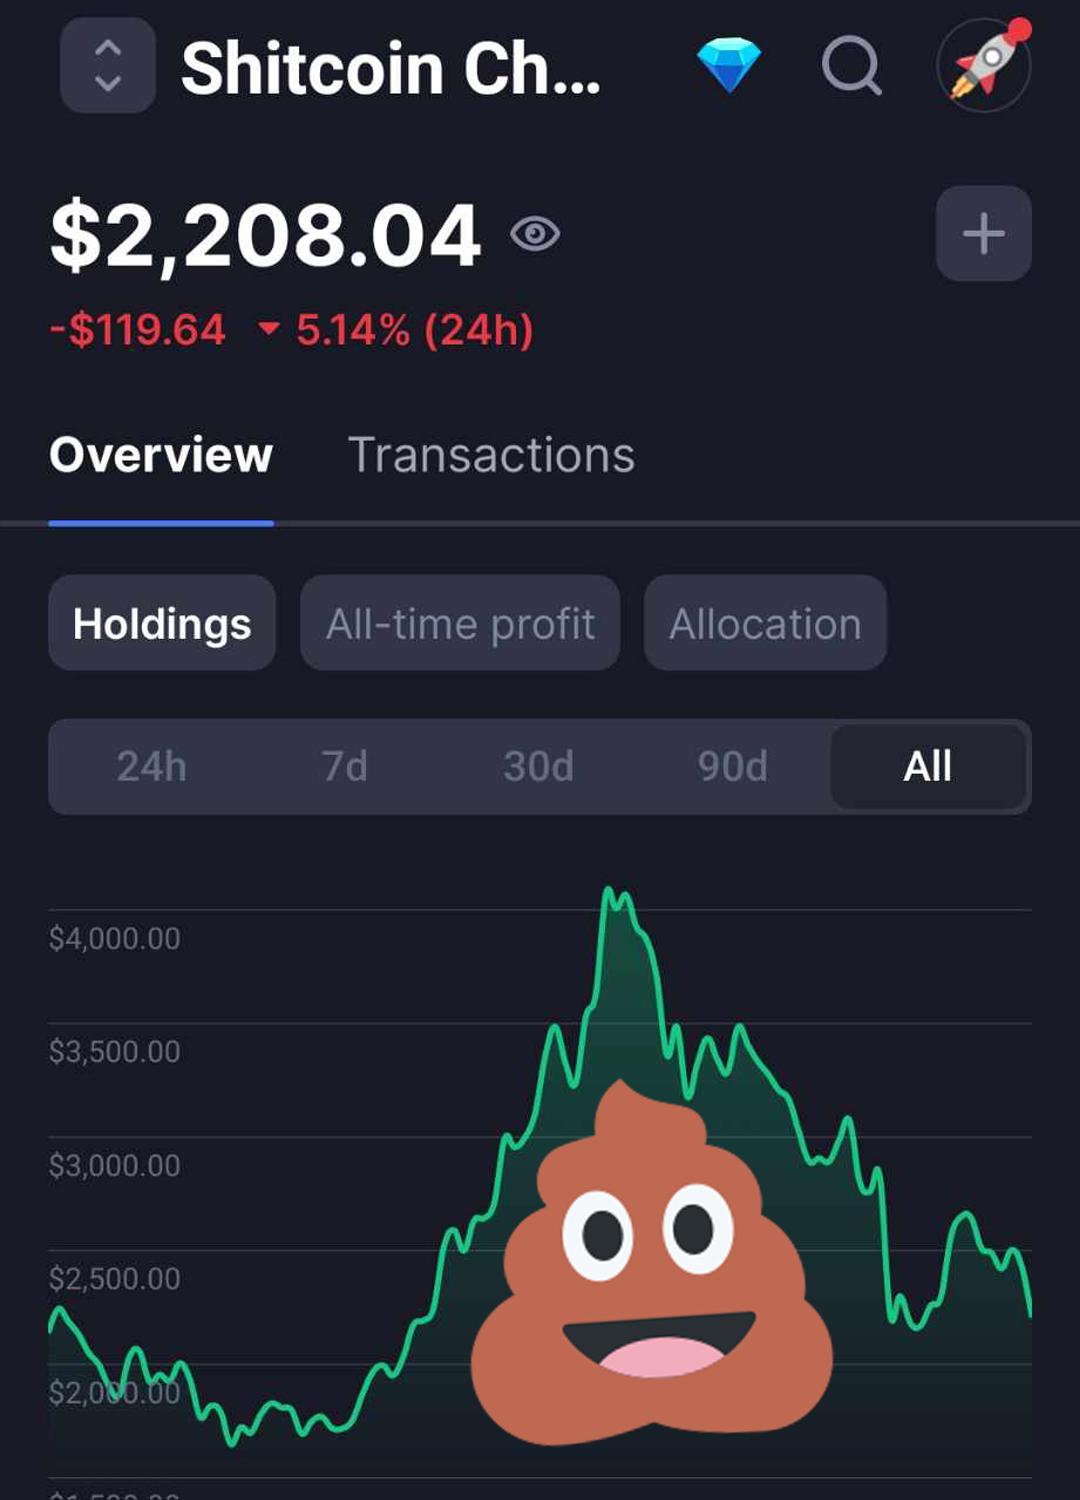
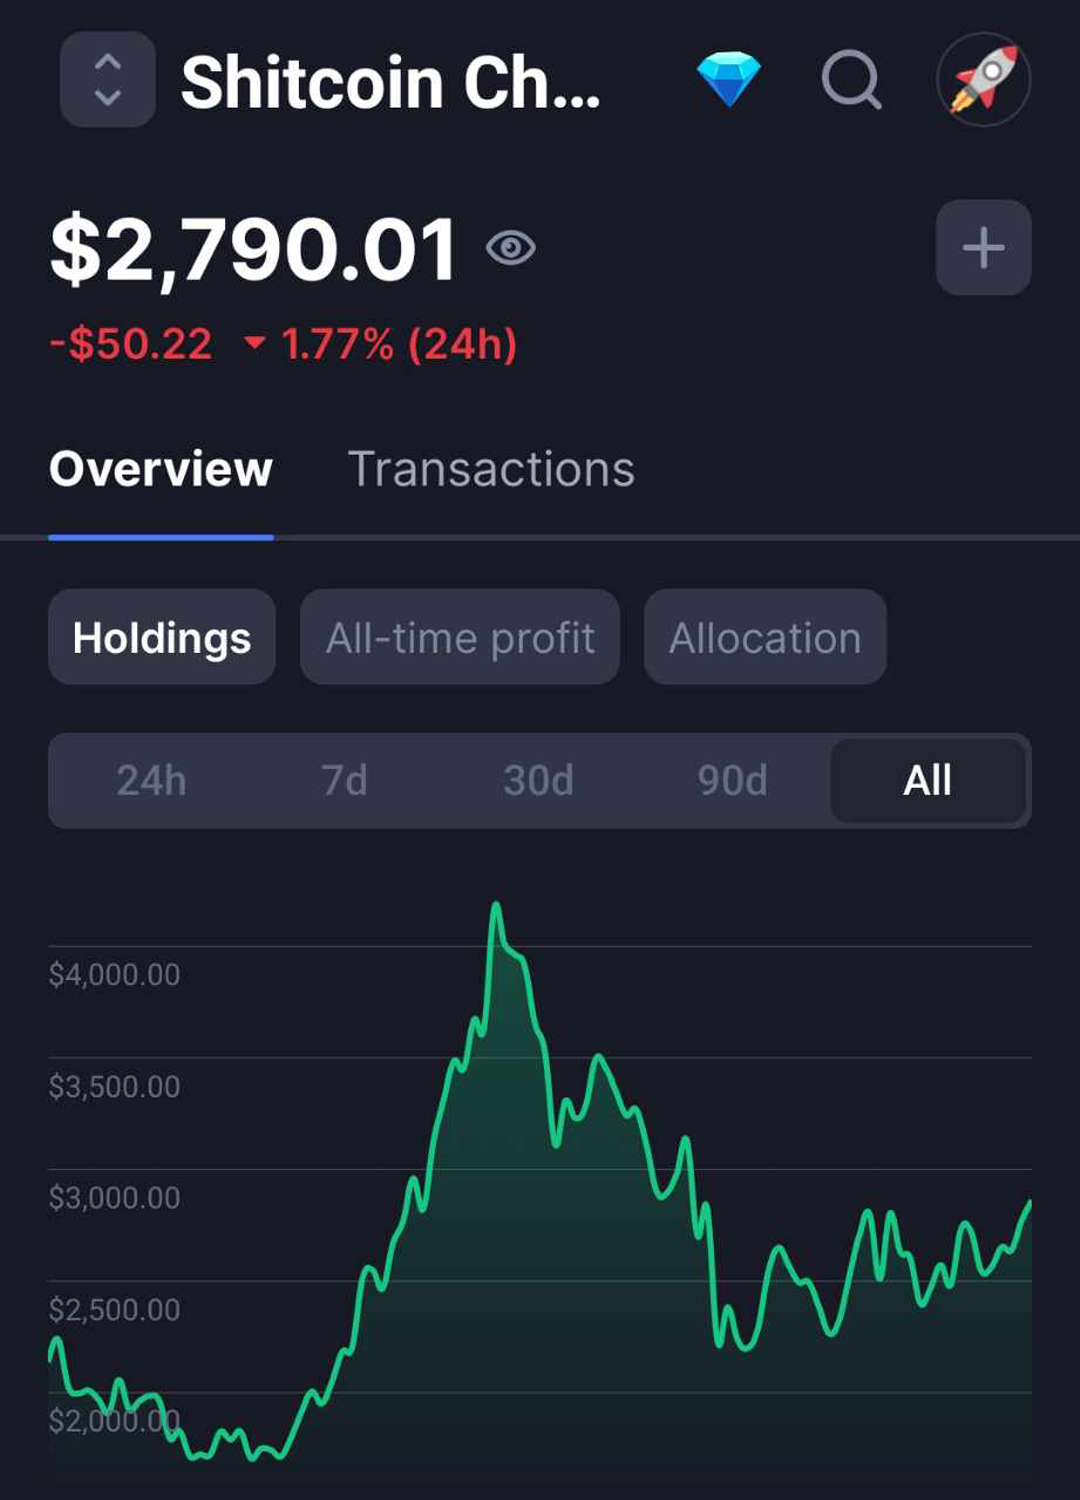
Fixed post ids

diff --git a/posts/my-first-radio-show.md b/posts/my-first-radio-show.md
@@ -1,5 +1,5 @@
 ---
-id: 14
+id: 13
 title: "My first radio show"
 description: "1 hour of pure cringe."
 image: images/blog/thumbnails/radio.png
@@ -10,28 +10,42 @@ tags:
 
 I've hosted my very first radio show.
 
-As someone who tends to lean into introversion, stepping into the world of radio hosting and going out of my comfort zone was a pretty rewarding experience I must say.
+As someone who tends to lean into introversion, stepping into the world of radio
+hosting and going out of my comfort zone was a pretty rewarding experience I
+must say.
 
-There happened to be an empty slot at 8 PM for a local radio that my friend works in, so I thought "Why not give it a shot ?"
+There happened to be an empty slot at 8 PM for a local radio that my friend
+works in, so I thought "Why not give it a shot ?"
 
-And that's how it all began - me, my vocal cords and my trusty HyperX Quadcast (#ad, sponsor this blog please).
+And that's how it all began - me, my vocal cords and my trusty HyperX Quadcast
+(#ad, sponsor this blog please).
 
 ## The reality of radio shows
 
-I had always thought of radio shows being live, but in reality, most of it is pre-recorded. \
-Since Covid happened, things have transitioned from live to pre-recorded recordings. \
-This worked to my advantage because I wouldn't have managed a live show on my own without preparations. \
-All I had to do was pick songs of my liking, choose the order, and send voice clips of me transitioning songs.
+I had always thought of radio shows being live, but in reality, most of it is
+pre-recorded. \
+Since Covid happened, things have transitioned from live to pre-recorded recordings.
+\
+This worked to my advantage because I wouldn't have managed a live show on my
+own without preparations. \
+All I had to do was pick songs of my liking, choose the order, and send voice clips
+of me transitioning songs.
 
 So I downloaded Audacity, prepared my text on Word and got started. \
-To be completely honest, I cringed so hard that I didn't even listen to my voice clips after recording and sent them immediately to the editor. \
-We were in a hurry anyways, having to prepare a radio show for 8 PM at 6 PM with absolutely nothing prepared beforehand. 
+To be completely honest, I cringed so hard that I didn't even listen to my voice
+clips after recording and sent them immediately to the editor. \
+We were in a hurry anyways, having to prepare a radio show for 8 PM at 6 PM with
+absolutely nothing prepared beforehand.
 
-There isn't much to say beside that after everything was recorded and edited, it went straight into live with no check-ups whatsoever. \
-Thank the Lord I didn't stutter or anything because it'd have been embarrassing, although I did use a stage name "Horace".
+There isn't much to say beside that after everything was recorded and edited, it
+went straight into live with no check-ups whatsoever. \
+Thank the Lord I didn't stutter or anything because it'd have been embarrassing,
+although I did use a stage name "Horace".
 
-I have even received a feedback while my show was being broadcasted, saying that my show was a nice fresh take on the usual theme of the radio. \
-At the end of the day, I felt more satisfaction than cringe, which was honestly surprising given my initial irk at the task.
+I have even received a feedback while my show was being broadcasted, saying that
+my show was a nice fresh take on the usual theme of the radio. \
+At the end of the day, I felt more satisfaction than cringe, which was honestly surprising
+given my initial irk at the task.
 
 TL;DR: Good experience and would (maybe) do it again if the occasion arises.
 
@@ -40,13 +54,13 @@ TL;DR: Good experience and would (maybe) do it again if the occasion arises.
 In broadcasting order:
 
 - **Leave the Door Open** | Bruno Mars
-- **Cardigan** | Taylor Swift 
+- **Cardigan** | Taylor Swift
 - **Toxic** | BoyWithUke
-- **Call Me Maybe** | Carly Rae Jepsen  
+- **Call Me Maybe** | Carly Rae Jepsen
 - **Leave the Door Open** | Bruno Mars
-- **Da Capo** | HOYO-MiX 
+- **Da Capo** | HOYO-MiX
 - **Fly Me to the Moon** | Frank Sinatra
-- **A Dramatic Irony** | HOYO-MiX 
+- **A Dramatic Irony** | HOYO-MiX
 - **Somewhere over the Rainbow** | Israel Kamakawiwoʻole
 - **On m'appelle l'ovni** | Jul
 - **Lonely** | Justin Bieber

diff --git a/posts/shitcoin-challenge-5.md b/posts/shitcoin-challenge-5.md
@@ -1,5 +1,5 @@
 ---
-id: 17
+id: 16
 title: "Shitcoin Challenge: May 2024"
 description: "We're back."
 image: images/blog/thumbnails/pepefat.png
@@ -12,7 +12,7 @@ tags:
 Welcome to Month 6 of the Shitcoin Challenge where I showcase my questionable
 financial decisions to the world.
 
-![Gain](/images/blog/17-chart.png)
+![Gain](/images/blog/16-chart.png)
 
 We're going back up, boys. Fasten your seatbelts.
 
@@ -21,7 +21,7 @@ next update. \
 I have suffered through **2 years of bear market**, so trust me, I know what I'm
 doing now and I can definitely predict the market (no).
 
-![Portfolio](/images/blog/17-portfolio.png)
+![Portfolio](/images/blog/16-portfolio.png)
 
 Your monthly reminder that I bought 300 dollars of each coin on January
 1st, 2024.
@@ -29,7 +29,7 @@ Your monthly reminder that I bought 300 dollars of each coin on January
 From $2208.04 last month to $2790.01 today, this is a solid **26.35%** increase,
 which I'll gladly take.
 
-![Profit](/images/blog/17-profit.png)
+![Profit](/images/blog/16-profit.png)
 
 I am most surprised by Stargate, which made a massive 50.77% surge 3 days ago
 and is finally in the green.

diff --git a/posts/shitcoin-challenge-3.md b/posts/shitcoin-challenge-3.md
@@ -1,5 +1,5 @@
 ---
-id: 15
+id: 14
 title: "Shitcoin Challenge: March 2024"
 description: "G fucking G."
 image: images/blog/thumbnails/feelsbadman.png
@@ -20,7 +20,7 @@ I could have sold, I know I should have, and I almost did.
 However, to keep the integrity of the challenge, I rode this shit to oblivion.\
 You're welcome.
 
-![Gain](/images/blog/15-chart.jpg)
+![Gain](/images/blog/14-chart.jpg)
 
 Bitcoin hit an all-time-high at $73777, which led my shitcoin portfolio to
 skyrocket to new highs as well.
@@ -31,12 +31,12 @@ And this is especially true in crypto.
 **$4170.11** is the high I reached on the 10th of March 2024, before it fell
 **25.16%** down to **$3120.83**.
 
-![Portfolio](/images/blog/15-portfolio.jpg)
+![Portfolio](/images/blog/14-portfolio.jpg)
 
 Your monthly reminder that I bought 300 dollars of each coin on January
 1st, 2024.
 
-![Profit](/images/blog/15-profit.jpg)
+![Profit](/images/blog/14-profit.jpg)
 
 Aleph Zero is still being a bitch and going to Zero as you can see.
 

diff --git a/posts/shitcoin-challenge-4.md b/posts/shitcoin-challenge-4.md
@@ -1,5 +1,5 @@
 ---
-id: 16
+id: 15
 title: "Shitcoin Challenge: Avril 2024"
 description: "It's so over."
 image: images/blog/thumbnails/pepelook.png
@@ -18,7 +18,7 @@ Well, shit.
 My gains are almost as impressive as a pile of poo, with two months of progress
 down the drain.
 
-![Gain](/images/blog/16-chart.png)
+![Gain](/images/blog/15-chart.png)
 
 The drop was as steep as the rise from month 2; you can even visualize a poo
 figure in the chart.
@@ -28,12 +28,12 @@ However I wasn't expecting to regress back to January values.
 
 WHERE IS THE BULL RUN I WAS PROMISED, HALVING MY ASS.
 
-![Portfolio](/images/blog/16-portfolio.png)
+![Portfolio](/images/blog/15-portfolio.png)
 
 Your monthly reminder that I bought 300 dollars of each coin on January
 1st, 2024.
 
-![Profit](/images/blog/16-profit.png)
+![Profit](/images/blog/15-profit.png)
 
 Aleph Zero taking L's since day one, surprise, surprise.
 
